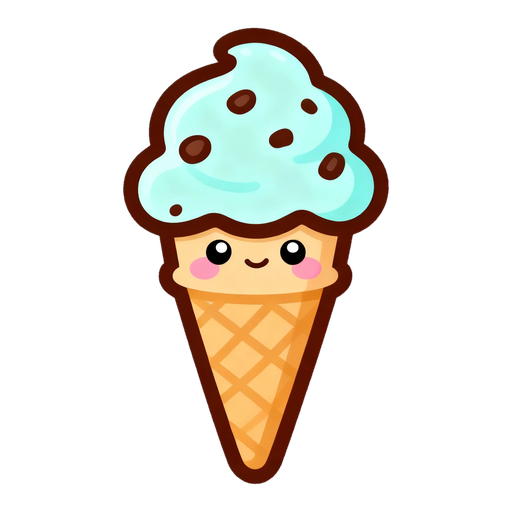
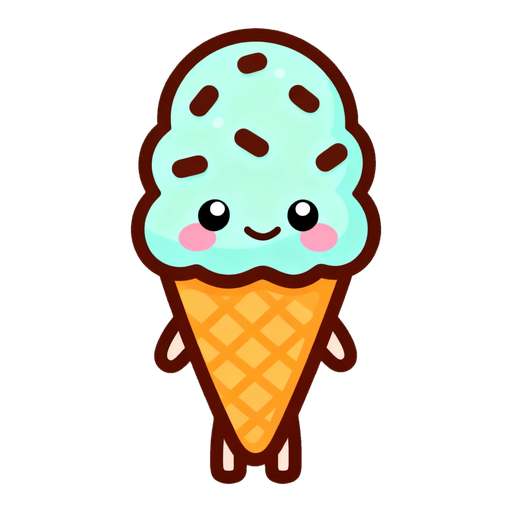
ひみつのチョコミント（RASP）を手足のある絵に差しかえ、16タイプの絵がすべて決定に
Claude-Session: https://claude.ai/code/session_01VNhb2iCPFHtHjevBTfmMUk

Changed region(s): [[0.2188, 0.0625, 0.7812, 0.9688]]

diff --git a/CLAUDE.md b/CLAUDE.md
@@ -58,7 +58,7 @@
 - **本格版への作り直し**（鑑定者本人の指示 2026-11-12「これらの文献をもとにもっと本格的な診断を」「その案で進めて」）：鑑定者本人が渡した論文4本＝古村・村上・戸田（2016）ECR-RS日本語版／中尾・加藤（2004）ECR-GO／松井（1993）恋愛行動の段階と恋愛意識／金政・大坊（2003）愛情の三角理論。頼り方＝愛着の「回避」（頼る・打ち明ける・心を開く。連絡の回数の質問は使わない）、心のゆれやすさ＝愛着の「見捨てられ不安」（嫉妬・がまん・自尊心の質問は入れない）、恋の原動力＝「どちらを優先するか」の質問（ときめきと安心は反対どうしではないため）。はじめに「今の恋の状況」（恋人がいる／片思い中／いない）を聞き、結果に添える（片思いは情熱が高く出やすい＝金政・大坊 2003）。**論文の質問文は写さない**（意味だけを参考にこちらの言葉で書く）。近づき方・気持ちの伝え方は論文の裏づけがない独自のものさし（そう正直に書く）。**恋の心のくせ**（鑑定者本人 2026-11-12「進めてください」）：心のゆれやすさ（不安）×頼り方（回避＝100−T の％）で4つの型＝安心して寄りそえる／相手の気持ちが気になりやすい／ひとりで立とうとする／近づきたいのに少し怖くなる（`KUSE`・`kuseHTML`。境目は各ものさしのまん中＝50、±8以内は「となりの型の面もあわせ持つ」と添える。地図で位置も見せる＝型は点数より変わりやすいため〈中尾・加藤 2004〉。本格版だけ）。研究の型名（拒絶型・恐れ型など）や「良い・悪い」の言い方は出さない。**この診断の考え方**（鑑定者本人 2026-11-12「進めてください」。`?about=1`・`renderAbout`・`ABOUT`・`REFS`）：ものさしごとに「研究を参考にしたところ／独自のところ」の札を付け、もとにした研究・研究でわかっていること・それをどう使ったかを、論文の文を写さずこちらの言葉で書く。論文4本を参考文献として doi・J-STAGE のリンクつきで並べる。「医療や心理の専門的な検査ではない」も書く（「まだ多くの人の答えで確かめていない」は書かない＝鑑定者本人の指示 2026-11-12「こんなことが書いてあるサイトは見たことがないので削除」）。読んでいない論文（報道で知っただけのもの）は参考文献に入れない。はじめの画面・恋の心のくせの欄・ページの下から開ける。**診断サイトを研究（答えを集めること）には使わない**（鑑定者本人の判断 2026-11-12「診断サイトを研究には使えません」）：答えを送るしくみ・同意のチェック・年代や性別の欄・サーバーの受け口は入れない（一度作ったが取り外した）。結果は端末の中だけに保存し、「どこにも送りません」の説明のままにする。質問の確かめが必要になったときは、診断サイトとは別の方法を鑑定者本人と決める。
 - 参考にした lovetype16.jp の軸・名前・文章・絵は使わない（相手のサイトは無断利用禁止）。答えは端末の中だけに保存。
 - **本格版（40問）とかんたん版（16問）**（鑑定者本人の指示 2026-11-12）：かんたん版は4つのものさしから4問ずつ（`QUICK`）。心のゆれやすさは本格版だけ（かんたん版の結果には「本格版で、もっと正確に」の案内）。
-- **16キャラクターの絵**：鑑定者本人が pollo.ai で作った絵（2026-11-12。`koi16/img/タイプ4文字.png`。16タイプすべて入れた。ひみつのチョコミント〈RASP〉だけは手足のない仮の絵＝手足のある絵が届いたら差しかえる）。SNSの紹介画像 `og-image.png` も同じ絵で作る。白い背景や描きこまれた市松模様は `python3 -I tools/koi16_cutout.py 元の画像 koi16/img/LVTP.png` で消して透明にし（取っ手の輪の中など囲まれた背景は、元の画像の位置 `x,y` を足して消す）、`CHARA_IMG` にタイプを足す。画像がないタイプ・読めないときは、こちらで描いたSVG（`ART`・`artSvg`）を出す。保存する画像も同じ絵。ほかのサイトの絵は使わない。作り方の共通の指示は「白い背景・小さな手と足・太い茶色のふちどり」。名前・肩書きは言葉の切れ目でだけ改行する（`cname`・`fname`。泣き別れを作らない）。
+- **16キャラクターの絵**：鑑定者本人が pollo.ai で作った絵（2026-11-12。`koi16/img/タイプ4文字.png`。16タイプすべて入れた。ひみつのチョコミント〈RASP〉も手足のある絵に差しかえ済み）。SNSの紹介画像 `og-image.png` も同じ絵で作る。白い背景や描きこまれた市松模様は `python3 -I tools/koi16_cutout.py 元の画像 koi16/img/LVTP.png` で消して透明にし（取っ手の輪の中など囲まれた背景は、元の画像の位置 `x,y` を足して消す）、`CHARA_IMG` にタイプを足す。画像がないタイプ・読めないときは、こちらで描いたSVG（`ART`・`artSvg`）を出す。保存する画像も同じ絵。ほかのサイトの絵は使わない。作り方の共通の指示は「白い背景・小さな手と足・太い茶色のふちどり」。名前・肩書きは言葉の切れ目でだけ改行する（`cname`・`fname`。泣き別れを作らない）。
 - **スマホが本命・泣き別れゼロ**（鑑定者本人の指示 2026-11-12「泣き崩れは起こさないような書き方に」「スマホが100％」）：文のおしまいの5文字はいっしょに改行（`glue`・`.nb`）、名前・肩書き・ボタンの文字は言葉の切れ目でだけ改行（`.nw`）、保存する画像の文は読点で切って行の長さをそろえ、最後の行を4文字以上に（`wrapLines`）。文を足したり直したりしたら `node tools/release_gate/gate_koi16.cjs` を回す（幅320・360・375・390・414・430pxで、全画面の泣き別れ・横はみ出し・44px未満のボタンが0件になること）。
 - **集客の案内先＝「1.66 奇跡の相性診断」**（鑑定者本人の指示 2026-11-12）：結果の下に「次は、生年月日で」の案内。公開URLは `https://166unmei.com/`（鑑定者本人 2026-11-12。`CTA.url`。空にすると案内は出ない）。`?ref=koi16` を付けて送り、1.66側でどこから来た人か分かるようにする。
 
